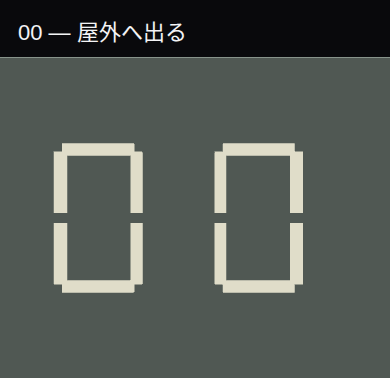
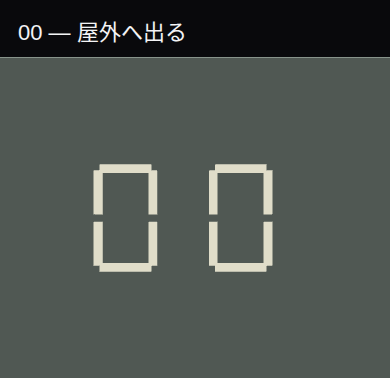
fix: keep finale attendance display in player view

Changed region(s): [[0.1231, 0.3783, 0.4308, 0.7857], [0.5231, 0.3783, 0.8, 0.7857]]

diff --git a/src/domain/stages/departure-control-v1/scene.tsx b/src/domain/stages/departure-control-v1/scene.tsx
@@ -83,7 +83,7 @@ export function StageScene({ world, resources, runtime, onFrameError }: { world:
       position={[BELL_RECEIVER.x,BELL_RECEIVER.y,BELL_RECEIVER.z]} scale={[RECEIVER_RADIUS,RECEIVER_HEIGHT,RECEIVER_RADIUS]}/>
     <mesh name="enclosure-floor-light" geometry={resources.box} material={resources.neutral}
       position={[2.45,.07,18.1]} scale={[2.7,.045,.14]}/>
-    <group name="attendance-display" position={[-4.74,2.35,10.6]} rotation={[0,Math.PI/2,0]}>
+    <group name="attendance-display" position={[-4.74,2.35,10.6]} rotation={[0,Math.PI/2,0]} scale={[.72,.72,.72]}>
       {digit(0,-.38)}
       <group ref={attendance2}>{digit(2,.25)}</group>
       <group ref={attendance1} visible={false}>{digit(1,.25)}</group>

diff --git a/docs/qa-goal013/README.md b/docs/qa-goal013/README.md
@@ -40,7 +40,7 @@
 
[1 lines of base64/hex data omitted]
 
-05の入退館人数表示の `0` は、旧sceneで左下の線分がなく、右下が二重だった。線分を直し、自然成功経路の実controller記録と実 `StageScene` を再抽出した。[02](departure-attendance-02.png)は開始frame 0、[01](departure-attendance-01.png)は停止操作frame 131、[00](departure-attendance-00.png)は屋外完了frame 186である。[再現用script](../../scripts/qa-departure-attendance.cjs)は `node scripts/qa-departure-natural.cjs` の後に実行する。可視groupの切替順と各数字の線分座標を検査し、固定QA cameraで同じdisplayを近接描画する。[入力・画像hash・結果](departure-attendance-report.json)を残した。3画像を開き、02→01→00が欠けや二重線なしで読めることを確認した。自然成功・復旧の動画SHA-256は再収録後も同一で、各動画はplayer cameraからこの表示を直接見せていない。近接画像は製品camera/HUDやiPhoneでの視認性を証明しない。
+05の入退館人数表示の `0` は、旧sceneで左下の線分がなく、右下が二重だった。線分修正後も、実controllerが記録した安全な開始位置から製品と同じ縦FOV 65・390×844のQA cameraを表示へ向けると、旧寸法では表示の横幅がNDC `-1.116〜1.095` となり左右が切れた。実sceneの表示groupを0.72倍へ縮め、全状態でNDCの左右上下が±0.9の内側に入ることを検査した。[開始位置の02](departure-attendance-spawn-02.png)、[停止後の01](departure-attendance-spawn-01.png)、[退館後の00](departure-attendance-spawn-00.png)と、[近接02](departure-attendance-02.png)、[近接01](departure-attendance-01.png)、[近接00](departure-attendance-00.png)を開き、数字全体が読めることを確認した。状態は自然成功経路のframe 0/131/186で、実sceneの可視groupの全frame切替順と線分座標も検査する。退館後の00を開始位置から見た画像はQA cameraの仮想視点であり、退館後の実プレイヤー視点ではない。[再現用script](../../scripts/qa-departure-attendance.cjs)は `node scripts/qa-departure-natural.cjs` の後に実行し、[入力・画像hash・結果](departure-attendance-report.json)を残す。自然成功・復旧の動画SHA-256は表示寸法の再修正後も同一で、各動画はplayer cameraから表示を直接見せていない。開始位置のQA cameraは手動で表示へ向けたため、製品の実旋回/HUDやiPhoneでの視認性を証明しない。
 
 05単独の復旧記録： [36.9秒の動画](departure-recovery.mp4)、[1秒ごとの接触シート](departure-recovery-contact.png)、[巡回体が戻る場面](departure-recovery-returning.png)、[再誘導後の収容](departure-recovery-contained.png)、[扉の閉鎖](departure-recovery-latched.png)、[イベント・入力とsource hash](departure-recovery-report.json)、[WebGL計測](departure-recovery-webgl.json)。`node scripts/qa-departure-natural.cjs --recovery` は同じ有効な鍵入口・実controller/scene経路で、全身収容前の閉扉拒否、最初のベルによる収容、閉鎖途中の手動開け直し、巡回体が区画外の通路へ戻るまでの待機、二度目のベルからの再誘導、再閉鎖・停止・屋外退館を一実行で通した。最初の拒否は実commandから「巡回体の全身が収容区画に入るのを待つ。」を返し、扉進行率は0のまま。開け直し後も進行率0・隔離falseを検査した。巡回体が区画外の `z<14.5` に戻った時刻はsimulation 20.15秒で、直前phaseは `return`。次のベルで `investigate` へ移ったことを確認してから、全身収容を再判定した。位置・AI phase・solved bitの直接代入はない。
 
@@ -58,8 +58,8 @@ Goal 012の同条件before/after比較と検証器は [GOAL-012-EXTENSION-PROOF]
 | --- | ---: | ---: | ---: |
 | 04 鏡廊・控えめ | 0.025 / 0.106 / 2.232 ms | 0.5 / 1.2 / 35.6 ms | 1,685 / 311 |
 | 04 鏡廊・標準捕捉復帰 | 0.032 / 0.128 / 1.585 ms | 0.4 / 0.8 / 37.1 ms | 1,409 / 251 |
-| 05 自然成功 | 0.069 / 0.268 / 2.651 ms | 0.4 / 0.9 / 32.6 ms | 837 / 187 |
-| 05 開け直し・再誘導 | 0.043 / 0.162 / 4.311 ms | 0.4 / 0.7 / 26.8 ms | 1,819 / 369 |
+| 05 自然成功 | 0.049 / 0.221 / 2.147 ms | 0.5 / 0.9 / 33.0 ms | 837 / 187 |
+| 05 開け直し・再誘導 | 0.049 / 0.193 / 2.839 ms | 0.3 / 0.7 / 30.4 ms | 1,819 / 369 |
 
 `nativeCanvasLifecycle.test.tsx` では04の実R3F/native Canvas境界を10回入退出し、毎回鏡の反射target・materialと固定横顔/鍵形のgeometry/materialが一度だけdisposeされ、R3F root数が開始値に戻り、rendererが一度解放され、旧controllerが停止することを確認した。GL context/rendererは試験用の代替なので、端末GPUの残存メモリや実EXGL解放を測ったものではない。
 

diff --git a/docs/GOAL-013.md b/docs/GOAL-013.md
@@ -1,5 +1,9 @@
 # Goal 013 作業記録
 
+人数表示の線分を直した後、05の実controller記録を使って安全な開始位置から製品と同じ縦FOV 65の視点を追加した。旧寸法の02は画面横方向のNDCが `-1.116〜1.095` で切れていた。実sceneの表示groupを0.72倍にし、02/01/00の全状態で横・縦とも±0.9以内になることを再現scriptで検査した。開始位置と近接の計6枚を実際に開き、数字が読めることを確認した。修正後の自然成功・開け直し復旧を実controller/sceneで再収録し、報告のsource hashとWebGL計測を更新した。どちらの動画も表示を直接見せない経路なので動画SHA-256は同一。製品の実旋回/HUD、native Canvas、iPhoneの視認性は未確認である。詳細は `docs/qa-goal013/README.md`。
+
+この表示寸法修正後の `npm run check` はlint・型検査・109スイート/1,124テスト・iOS通常export（1,569 modules、10 assets）を通過した。source map付き公開用JSの再exportはiOS 1,576/Android 1,575 source・各10 assetで、5エリア同梱・開発画面/probe除外を確認。両OSでfirst-party各197 sourceが現行本文と一致し、iOSのThreeは1 source/22参照でclass identity一致。iOS/Android/neutralの実行時循環は各223 modules/684 edges/0 SCC・errors、Stage定義2件も通過した。`automatedChecksPassed=true`、`contentComplete=false`、`nativePreviewVerified=false`、`releaseReady=false` を維持する。
+
 05制御室の人数表示では `0` の左下線が欠け、右下線が二重だった。実sceneの数字を修正し、自然成功のcontroller記録187 frameで02→01→00の切替順と全数字の線分座標を検査した。固定QA cameraの3画像を開き、欠け・二重線のない表示を確認した。自然成功・開け直し復旧の実scene動画を再収録した結果、player cameraから表示が直接見えない既存動画のSHA-256は同一だった。source hash、WebGL計測、近接画像・再現scriptを `docs/qa-goal013/README.md` に更新した。修正後の `npm run check` はlint・型検査・109スイート/1,124テスト・iOS通常exportを通過。公開用source map付きiOS/Android exportは1,576/1,575 source・各10 asset、5エリア同梱・開発画面/probe除外、first-party各197 source本文一致を確認した。iOS Threeは1 source/22参照でclass identity一致、実行時循環は3対象とも223 modules/684 edges/0、Stage定義2件も通過。近接QAはnative HUD・iPhoneでの視認性の証明ではなく、公開ゲートは維持する。
 
 第一章を完了すると製品ホームの「第一章をはじめから」が消え、設定経由でしか新しい周回を始められなかった。完了後も同じ確認付きボタンを表示する。App host統合試験では、完了済みenvelopeをcold起動し、確認前は原文不変、明示確認後の01入場で旧原文がbackupへ保存され、新runId・reset世代+1・未完了の新周回になることを検査した。修正後の `npm run check` はlint・型検査・109スイート/1,124テスト・iOS通常export（1,569 modules、10 assets）を通過。公開用source map付きexportはiOS 1,576/Android 1,575 source・各10 asset、5エリア同梱・開発画面/probe除外を通過し、両OSのfirst-party各197 sourceが現行ファイルと一致した。iOSのThree class identityは1 source/22参照、iOS/Android/neutralの循環は各223 modules/684 edges/0 SCC・errors、Stage定義検査2件も通過。iPhone上のホーム操作と実保存は未確認で、公開ゲートは維持する。

diff --git a/docs/RELEASE-CHAPTER-1.md b/docs/RELEASE-CHAPTER-1.md
@@ -1,5 +1,9 @@
 # 第一章の公開準備と未完了ゲート
 
+05の人数表示は線分修正後も、安全な開始位置から製品と同じ縦FOV 65で見ると左右が切れていた。実sceneの表示groupを0.72倍にし、自然成功のcontroller記録から02/01/00の各状態を同じ開始位置と近接視点で描画した。6画像を開き、全数字が画面内で読めることを確認した。QA cameraは手動で表示へ向けており、製品の実旋回/HUD、native Canvas、iPhoneでの見え方は未確認。自然成功・復旧動画を再収録し、source hashと計測を更新した。詳細は `docs/qa-goal013/README.md`。
+
+表示寸法修正後の `npm run check` はlint・型検査・109スイート/1,124テスト・iOS通常exportを通過。source map付き公開用JSはiOS 1,576/Android 1,575 source・各10 assetで5エリア同梱・開発画面/probe除外を確認し、first-party各197 sourceの本文一致、Three 1 source/22参照のclass identity、iOS/Android/neutralの実行時循環0、Stage定義2件も通過した。`automatedChecksPassed=true`、`contentComplete=false`、`nativePreviewVerified=false`、`releaseReady=false` を維持する。実機previewと正式なprivacy/support URLは引き続き公開ゲートの残件。
+
 05の人数表示で `0` の左下線が欠け、右下線が重複していたため実sceneを修正した。実controller記録から02→01→00の全frameの切替と線分を検査し、Software WebGLの近接画像3枚を開いた。再収録した自然成功・復旧動画のSHA-256は旧動画と同一で、記録のsource hashと計測を更新した。修正後の `npm run check` はlint・型検査・109スイート/1,124テスト・iOS通常exportを通過。公開用iOS/Android JSは1,576/1,575 source・各10 asset、5エリア同梱、開発画面/probe除外、first-party各197 source本文一致、Three class identity 22参照、循環0を確認した。近接画像は製品cameraや実端末の視認性を証明しない。`contentComplete=false`、`nativePreviewVerified=false`、`releaseReady=false` を維持し、iPhone previewと正式なprivacy/support URLを待つ。
 
 第一章完了後の製品ホームからも、確認付きで「第一章をはじめから」を選べるようにした。Jest App hostでは、確認前の完了記録保持、入場時の原文backup、新runIdとreset世代の更新を確認。変更後の全109スイート/1,124テスト、通常iOS export、両OS公開用source-map検査、循環/定義検査は通過した。端末での完了後の再開始、実AsyncStorageのbackupと画面表示はpreviewで確認する。
